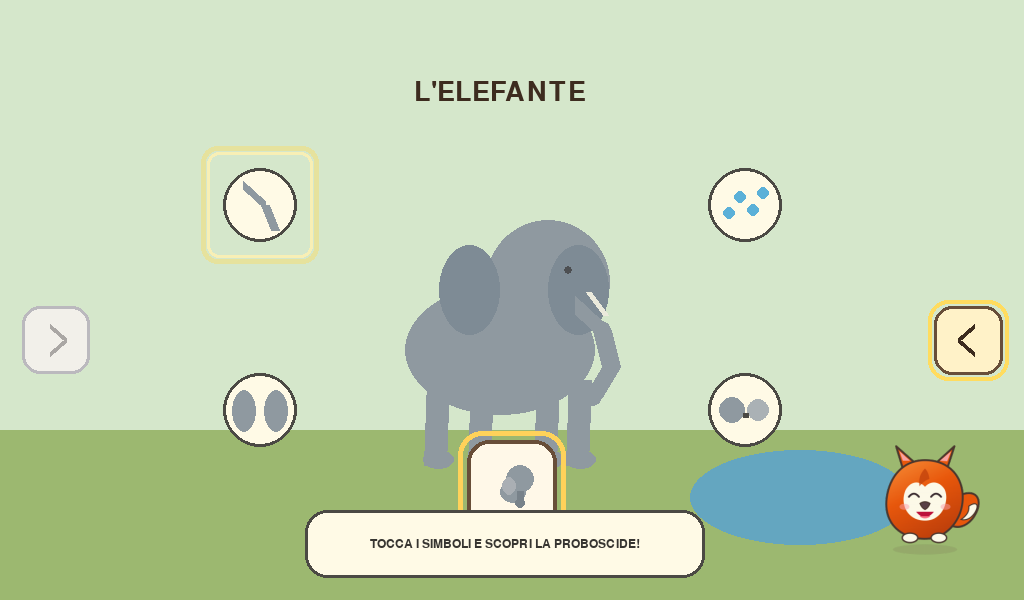
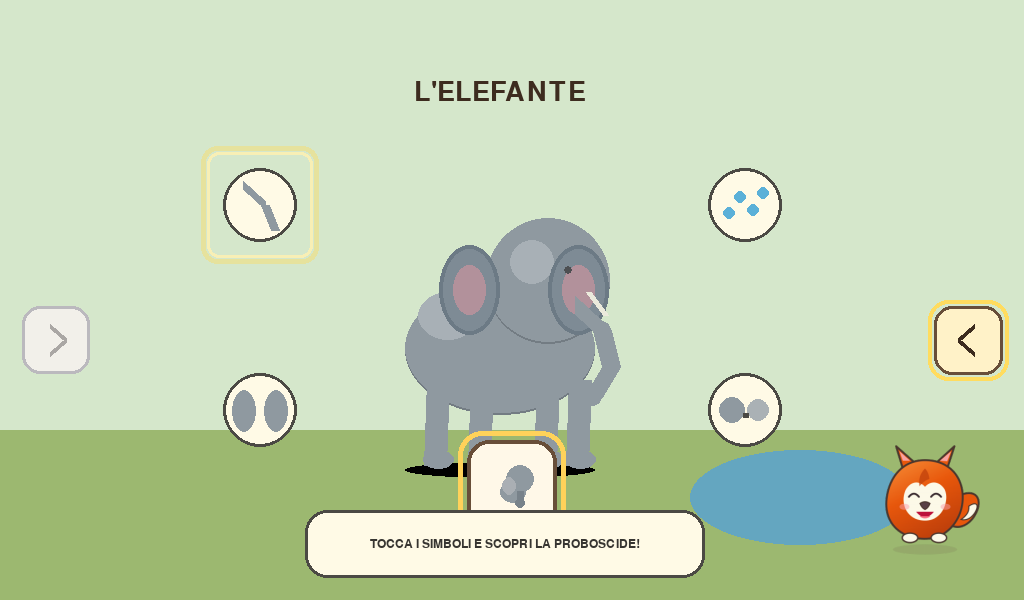
Encyclopedia: iterate animals.elephant - ear highlight/inner pink, body shadow/highlight, ground shadow
Iterative polish. Ears now with inner pink and highlight, body with shadow/highlight, ground ellipses.

Changed region(s): [[0.4062, 0.36, 0.5938, 0.57], [0.4062, 0.75, 0.4688, 0.81], [0.5312, 0.78, 0.5938, 0.81]]

diff --git a/activities/enciclopedia_greia/pages/elephant.py b/activities/enciclopedia_greia/pages/elephant.py
@@ -204,15 +204,27 @@ class ElephantPage(EncyclopediaPage):
 
     def _draw_elephant(self, surface: pygame.Surface) -> None:
         body = (143, 153, 160)
+        body_light = (168, 176, 182)
+        body_shadow = (115, 124, 131)
         dark = (77, 79, 82)
         cx, cy = 500, 330
-        pygame.draw.ellipse(surface, body, (405, 285, 190, 130))
-        pygame.draw.circle(surface, body, (548, 282), 62)
-
+        # Soft ground shadow
+        pygame.draw.ellipse(surface, (0, 0, 0, 24), (405, 462, 190, 16))
+        pygame.draw.ellipse(surface, body_shadow, (405, 285, 190, 130))
+        pygame.draw.ellipse(surface, body, (405, 283, 190, 130))
+        pygame.draw.ellipse(surface, body_light, (418, 292, 60, 48))
+        pygame.draw.circle(surface, body_shadow, (548, 282), 62)
+        pygame.draw.circle(surface, body, (548, 280), 62)
+        pygame.draw.circle(surface, body_light, (532, 262), 22)
         flap = math.sin(self._time * (5.0 if self._ear_age > 0 else 1.2))
         ear_w = 58 + int(abs(flap) * (13 if self._ear_age > 0 else 4))
-        pygame.draw.ellipse(surface, (126, 139, 149), (500 - ear_w, 245, ear_w, 90))
-        pygame.draw.ellipse(surface, (126, 139, 149), (548, 245, ear_w, 90))
+        # Ears with inner pink and highlight
+        pygame.draw.ellipse(surface, (108, 122, 133), (500 - ear_w, 245, ear_w, 90))
+        pygame.draw.ellipse(surface, (126, 139, 149), (500 - ear_w + 4, 249, ear_w - 8, 82))
+        pygame.draw.ellipse(surface, (178, 145, 155), (500 - ear_w + 14, 265, ear_w - 28, 50))
+        pygame.draw.ellipse(surface, (108, 122, 133), (548, 245, ear_w, 90))
+        pygame.draw.ellipse(surface, (126, 139, 149), (548 + 4, 249, ear_w - 8, 82))
+        pygame.draw.ellipse(surface, (178, 145, 155), (548 + 14, 265, ear_w - 28, 50))
 
         for x in (438, 482, 548, 580):
             pygame.draw.line(surface, body, (x, 380), (x - 3, 465), 23)
